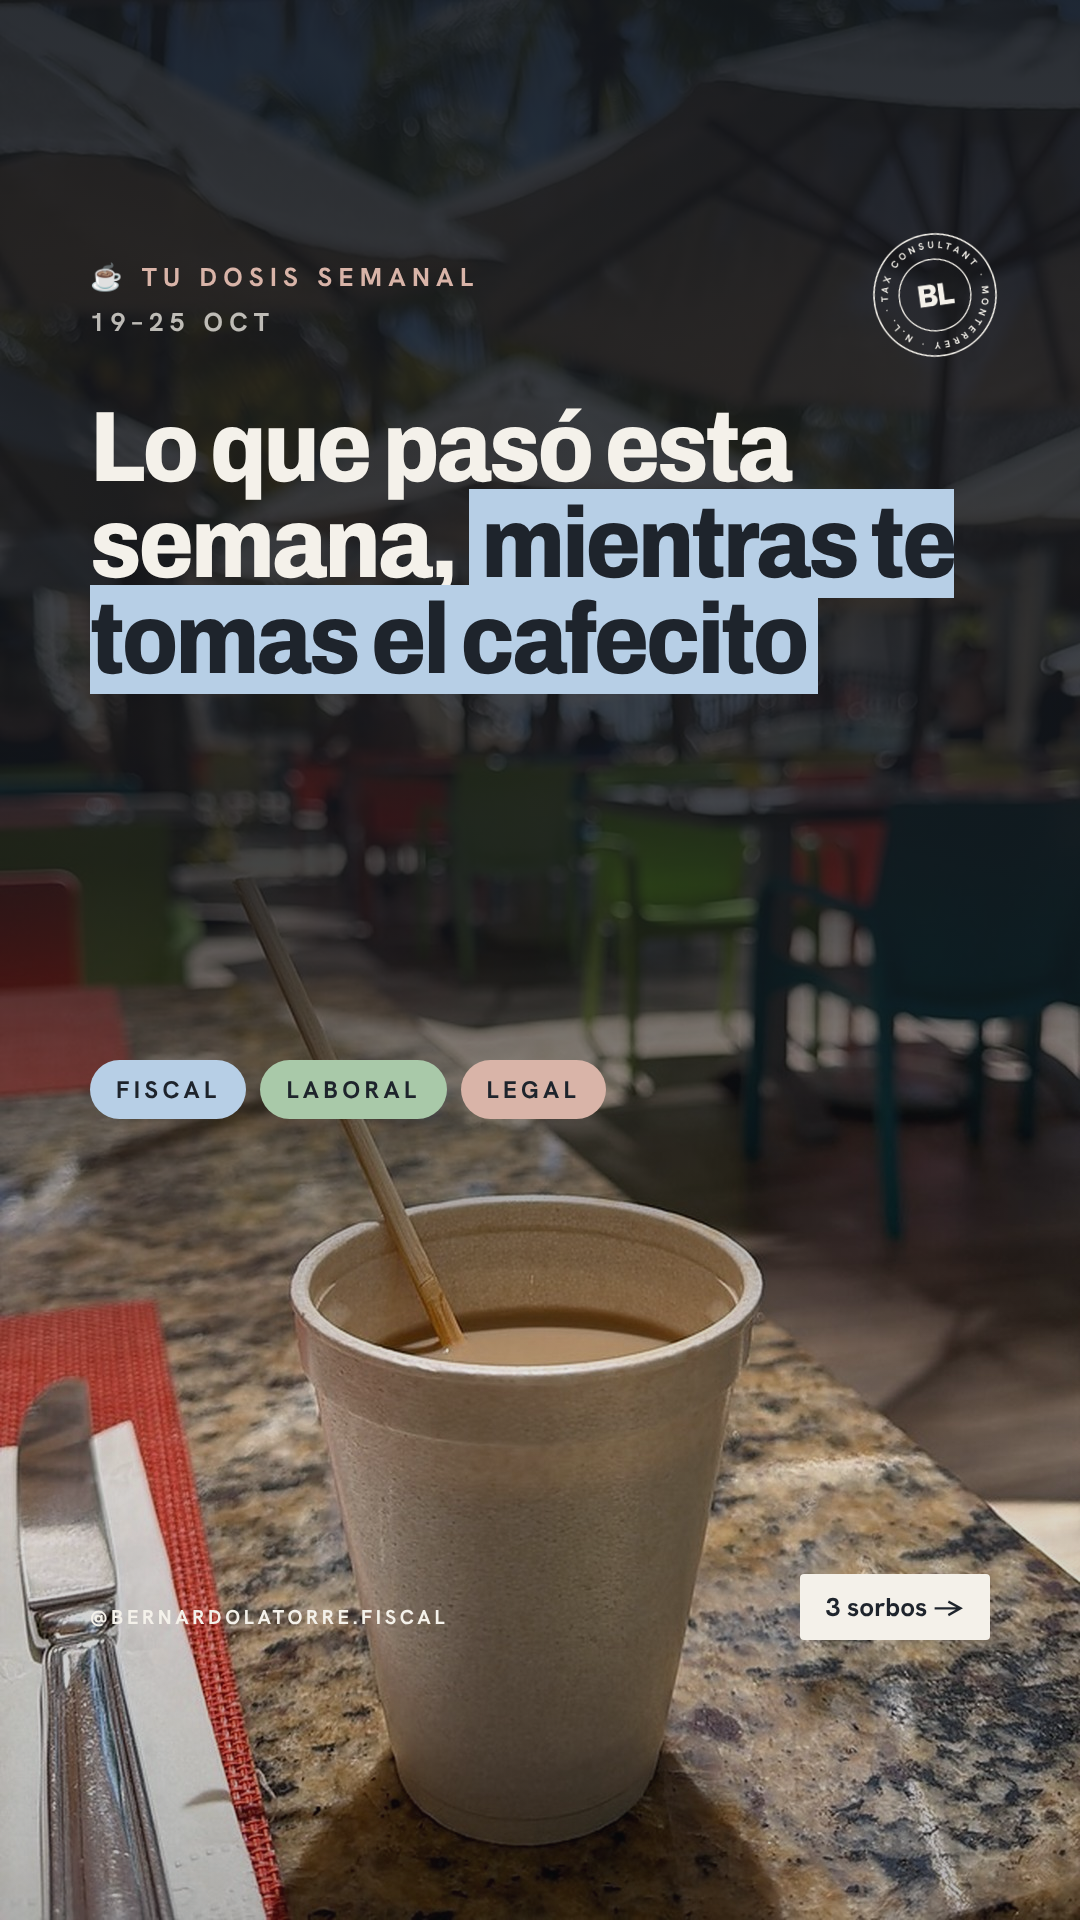
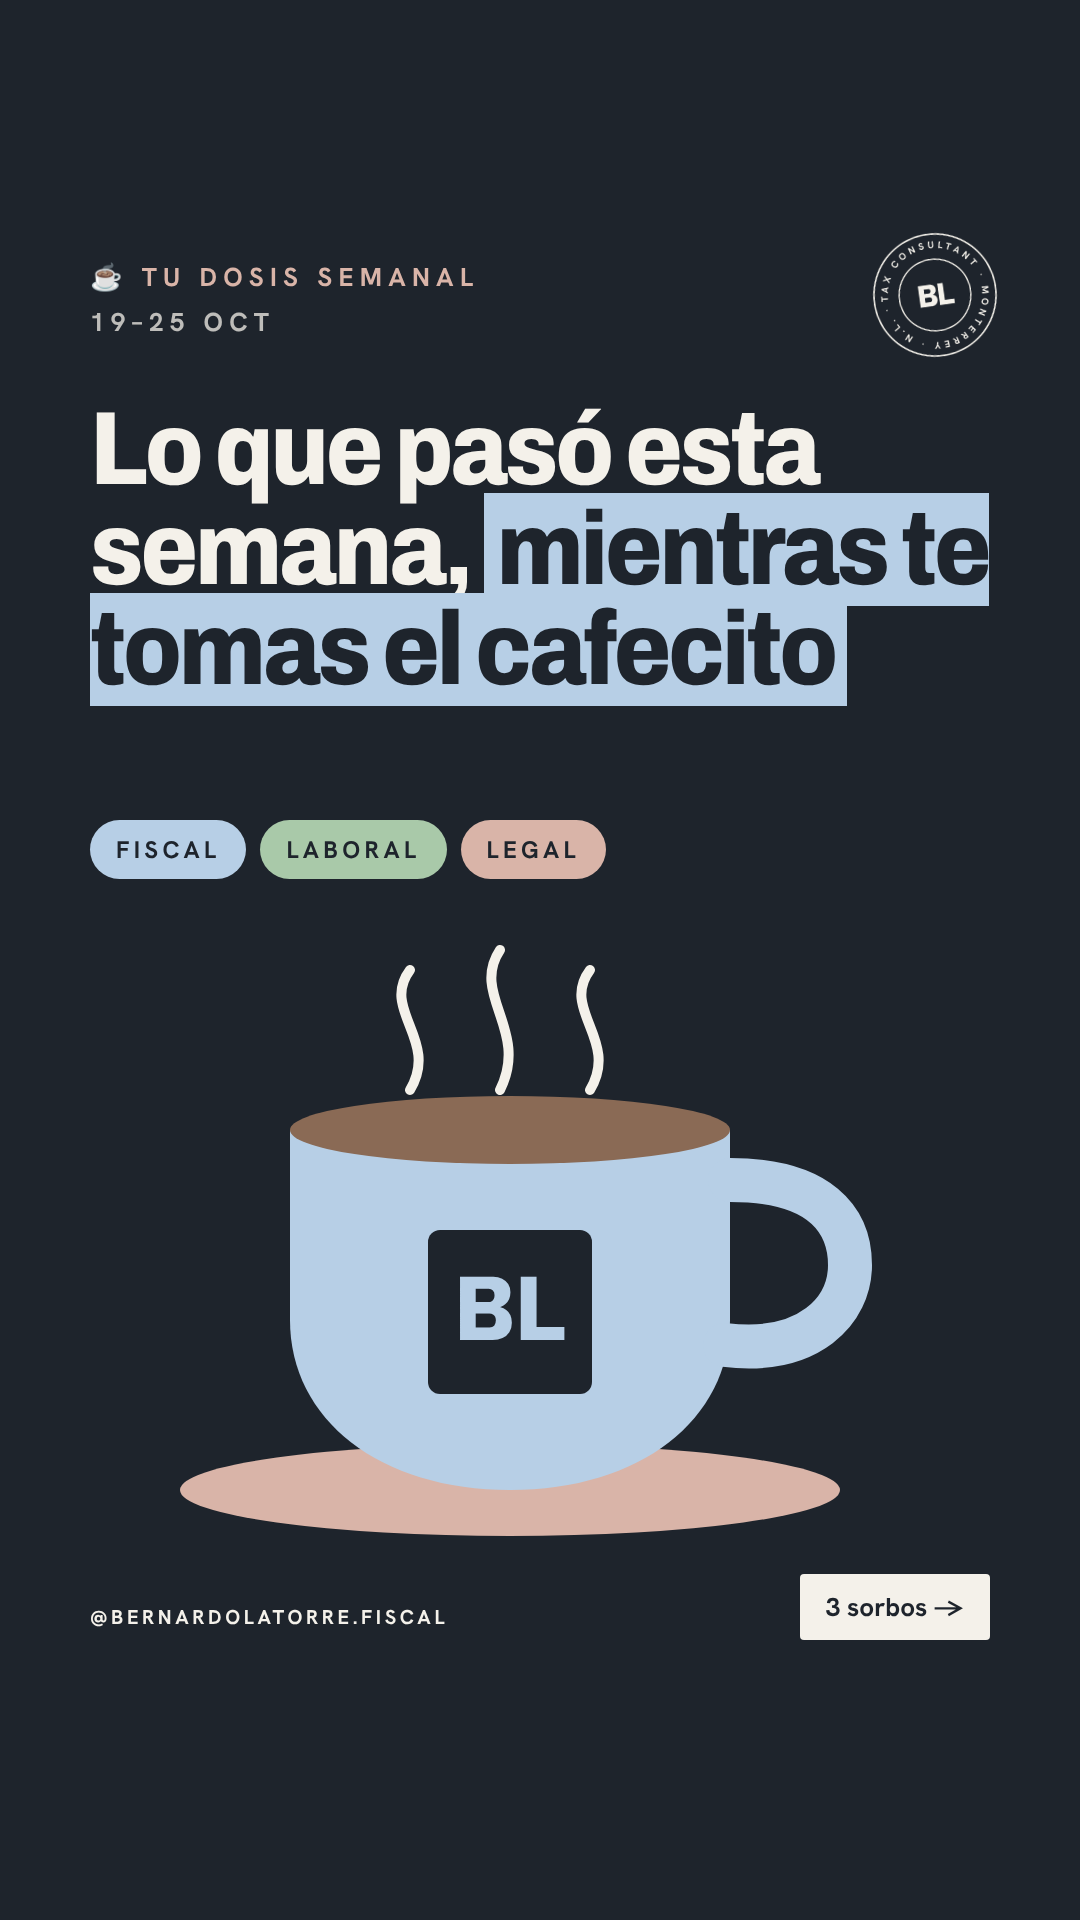
Dosis semanal: portada con ilustración de taza (sin fotos de Berny)
Claude-Session: https://claude.ai/code/session_01J2dboEZNzBYhxcXmwSfC74

diff --git a/recursos/plantillas/DosS1-01-Portada.dc.html b/recursos/plantillas/DosS1-01-Portada.dc.html
@@ -24,14 +24,20 @@ a{color:inherit}
 </helmet>
 <div class="" style="width: 1080px; height: 1920px; position: relative; overflow: hidden; font-family: 'Hanken Grotesk', sans-serif; color: #F4F1EA; background:#1E242C;">
 
-<img src="/_blob/15e9c1c0c5513d53a848a5eb62972dae" alt="Café en una mesa de terraza" style="position:absolute;inset:0;width:100%;height:100%;object-fit:cover;object-position:50% 70%">
-<div aria-hidden="true" style="position:absolute;inset:0;background:linear-gradient(180deg,rgba(20,24,30,0.9) 0%,rgba(20,24,30,0.8) 45%,rgba(20,24,30,0.1) 72%,rgba(20,24,30,0.3) 100%)"></div>
 <img src="/_blob/5b8391f45478910a1d0d8ca2823faf9b" alt="Sello BL, Bernardo Latorre Tax Consultant" style="position:absolute;right:80px;top:230px;width:130px;transform:rotate(-8deg)">
 <div style="position:absolute;left:90px;top:260px;font-size:26px;font-weight:700;letter-spacing:0.24em;color:#D9B4A8">☕ TU DOSIS SEMANAL</div>
 <div style="position:absolute;left:90px;top:305px;font-size:26px;font-weight:700;letter-spacing:0.24em;color:#F4F1EA;opacity:0.75">19–25 OCT</div>
-<h1 class="serif" style="position:absolute;left:90px;right:90px;top:400px;margin:0;font-size:100px;line-height:0.96">Lo que pasó esta semana, <span style="background:#B7CFE6;color:#1E242C;padding:0 12px">mientras te tomas el cafecito</span></h1>
-<div style="position:absolute;left:90px;top:1060px;display:flex;gap:14px">
+<h1 class="serif" style="position:absolute;left:90px;right:90px;top:400px;margin:0;font-size:104px;line-height:0.96">Lo que pasó esta semana, <span style="background:#B7CFE6;color:#1E242C;padding:0 12px">mientras te tomas el cafecito</span></h1>
+<div style="position:absolute;left:90px;top:820px;display:flex;gap:14px">
 <span style="padding:14px 26px;border-radius:999px;background:#B7CFE6;color:#1E242C;font-size:24px;font-weight:700;letter-spacing:0.18em">FISCAL</span><span style="padding:14px 26px;border-radius:999px;background:#A9C9A9;color:#1E242C;font-size:24px;font-weight:700;letter-spacing:0.18em">LABORAL</span><span style="padding:14px 26px;border-radius:999px;background:#D9B4A8;color:#1E242C;font-size:24px;font-weight:700;letter-spacing:0.18em">LEGAL</span></div>
+<svg aria-hidden="true" width="760" height="640" viewBox="0 0 760 640" style="position:absolute;left:160px;top:930px">
+<g fill="none" stroke="#F4F1EA" stroke-width="10" stroke-linecap="round"><path d="M250 40c-30 40 30 70 0 120"/><path d="M340 20c-30 45 30 80 0 140"/><path d="M430 40c-30 40 30 70 0 120"/></g>
+<ellipse cx="350" cy="560" rx="330" ry="46" fill="#D9B4A8"/>
+<path d="M130 200h440v190c0 100-90 170-220 170S130 490 130 390z" fill="#B7CFE6"/>
+<path d="M570 250c90 0 120 40 120 85s-40 90-125 80" fill="none" stroke="#B7CFE6" stroke-width="44" stroke-linecap="round"/>
+<ellipse cx="350" cy="200" rx="220" ry="34" fill="#8A6A55"/>
+<rect x="268" y="300" width="164" height="164" rx="12" fill="#1E242C"/>
+<text x="350" y="410" text-anchor="middle" font-family="Archivo" font-weight="800" font-size="92" fill="#B7CFE6" style="font-stretch:88%">BL</text></svg>
 <div style="position:absolute;right:90px;bottom:280px;padding:16px 26px;background:#F4F1EA;color:#1E242C;font-size:26px;font-weight:700;border-radius:4px">3 sorbos →</div>
 <div style="position:absolute;left:90px;bottom:290px;font-size:20px;font-weight:700;letter-spacing:0.18em;color:#F4F1EA">@BERNARDOLATORRE.FISCAL</div>
 </div>

diff --git a/recursos/plantillas/_gen_dosis_2026_10_26.py b/recursos/plantillas/_gen_dosis_2026_10_26.py
@@ -9,7 +9,6 @@ def _load(n):
 G = _load("_gen_oct20_22"); M = _load("_marca")
 H = "@BERNARDOLATORRE.FISCAL"
 SEMANA = "19–25 OCT"
-CAFE = "/_blob/15e9c1c0c5513d53a848a5eb62972dae"
 BERNY = "/_blob/25bcb8fe94907e94b0640cf81bd101a6"
 PIZ, TIN, MAR, AZ, SAL, TER, TERF = "#262F3B", "#1E242C", "#F4F1EA", "#B7CFE6", "#A9C9A9", "#D9B4A8", "#C98F7E"
 
@@ -45,16 +44,23 @@ def sorbo(n, cat, bg, fg, chip, titulo, cifra, cifra_txt, cuerpo, ati, fuente, c
 
 S = []
 
-# 1 Portada: foto del café de Berny (sombra oscura arriba para leer; sin degradados de color)
+# 1 Portada: ilustración de taza (sin fotos; Berny pidió no usar sus fotos aquí, 25 oct 2026), fondo tinta liso
+TAZA_GRANDE = f"""<svg aria-hidden="true" width="760" height="640" viewBox="0 0 760 640" style="position:absolute;left:160px;top:930px">
+<g fill="none" stroke="{MAR}" stroke-width="10" stroke-linecap="round"><path d="M250 40c-30 40 30 70 0 120"/><path d="M340 20c-30 45 30 80 0 140"/><path d="M430 40c-30 40 30 70 0 120"/></g>
+<ellipse cx="350" cy="560" rx="330" ry="46" fill="{TER}"/>
+<path d="M130 200h440v190c0 100-90 170-220 170S130 490 130 390z" fill="{AZ}"/>
+<path d="M570 250c90 0 120 40 120 85s-40 90-125 80" fill="none" stroke="{AZ}" stroke-width="44" stroke-linecap="round"/>
+<ellipse cx="350" cy="200" rx="220" ry="34" fill="#8A6A55"/>
+<rect x="268" y="300" width="164" height="164" rx="12" fill="{TIN}"/>
+<text x="350" y="410" text-anchor="middle" font-family="Archivo" font-weight="800" font-size="92" fill="{AZ}" style="font-stretch:88%">BL</text></svg>"""
 S.append(("DosS1-01-Portada", story("Tu dosis semanal", MAR, f"""
-<img src="{CAFE}" alt="Café en una mesa de terraza" style="position:absolute;inset:0;width:100%;height:100%;object-fit:cover;object-position:50% 70%">
-<div aria-hidden="true" style="position:absolute;inset:0;background:linear-gradient(180deg,rgba(20,24,30,0.9) 0%,rgba(20,24,30,0.8) 45%,rgba(20,24,30,0.1) 72%,rgba(20,24,30,0.3) 100%)"></div>
 <img src="{M.SELLO_MARFIL}" alt="Sello BL, Bernardo Latorre Tax Consultant" style="position:absolute;right:80px;top:230px;width:130px;transform:rotate(-8deg)">
 <div style="position:absolute;left:90px;top:260px;font-size:26px;font-weight:700;letter-spacing:0.24em;color:{TER}">☕ TU DOSIS SEMANAL</div>
 <div style="position:absolute;left:90px;top:305px;font-size:26px;font-weight:700;letter-spacing:0.24em;color:{MAR};opacity:0.75">{SEMANA}</div>
-<h1 class="serif" style="position:absolute;left:90px;right:90px;top:400px;margin:0;font-size:100px;line-height:0.96">Lo que pasó esta semana, <span style="background:{AZ};color:{TIN};padding:0 12px">mientras te tomas el cafecito</span></h1>
-<div style="position:absolute;left:90px;top:1060px;display:flex;gap:14px">
+<h1 class="serif" style="position:absolute;left:90px;right:90px;top:400px;margin:0;font-size:104px;line-height:0.96">Lo que pasó esta semana, <span style="background:{AZ};color:{TIN};padding:0 12px">mientras te tomas el cafecito</span></h1>
+<div style="position:absolute;left:90px;top:820px;display:flex;gap:14px">
 {''.join(f'<span style="padding:14px 26px;border-radius:999px;background:{c};color:{TIN};font-size:24px;font-weight:700;letter-spacing:0.18em">{t}</span>' for t, c in [("FISCAL", AZ), ("LABORAL", SAL), ("LEGAL", TER)])}</div>
+{TAZA_GRANDE}
 <div style="position:absolute;right:90px;bottom:280px;padding:16px 26px;background:{MAR};color:{TIN};font-size:26px;font-weight:700;border-radius:4px">3 sorbos →</div>
 <div style="position:absolute;left:90px;bottom:290px;font-size:20px;font-weight:700;letter-spacing:0.18em;color:{MAR}">{H}</div>""", TIN)))
 

diff --git a/recursos/historial.md b/recursos/historial.md
@@ -20,7 +20,7 @@ La tarea programada lee este archivo antes de crear un carrusel (para no repetir
 | 2026-10-23 (viernes 21:45, publicado de inmediato a pedido de Berny) | Historias de despacho Ep. 02: sello digital restringido por cambiarse de local sin presentar el aviso de cambio de domicilio (arts. 27 B fr. II y III y 17-H Bis fr. III CFF; art. 29 fr. IV RCFF) | Formato Historias v2.1: papel claro + tarjeta negra tipo post de X (solo texto) | Sello BL pequeño bajo la tarjeta de la última lámina (generador _gen_his02_domicilio.py, prefijo His2) | ninguna (solo texto) |
 | 2026-10-24 | Historias de despacho Ep. 03: factura de una venta que se cayó y no se canceló; plazo para cancelar CFDI (art. 29-A CFF), multa 5%–10% (arts. 81 fr. XLVI y 82 fr. XLII CFF), ingreso acumulable al facturar (art. 17 fr. I a) LISR) | Formato Historias v2.1: papel claro + tarjeta negra tipo post de X (solo texto) | Sello BL pequeño bajo la tarjeta de la última lámina (generador _gen_his03_cancelar_cfdi.py, prefijo His3) | ninguna (solo texto) |
 | 2026-10-19 | Lunes legal #1: ¿Tu equipo trabaja sin contrato? (LFT arts. 24, 25, 26, 35, 39-A y 784) | Degradado sierra + sello BL + etiqueta ⚖ LUNES LEGAL + título Archivo grande "sin contrato?" en azul polvo (motivo: papel/firma) | Mito sobre foto; carga de la prueba sobre expedientes; lista numerada en degradado noche; checklist en hoja sobre papel; plazos en degradado salvia; cierre atardecer con texto GGTZ (generador _gen_leg_contrato.py, prefijo Leg1) | mano-firmando-documento, pilas-de-documentos |
-| 2026-10-26 | Tu dosis semanal #1 — 5 HISTORIAS (lunes 7:00, semana 19–25 oct): nuevo programa de regularización en LIF 2027 (comisiones del Senado), tope de +1 UMA en Modalidad 40 (acuerdo IMSS DOF 21 oct), Ley General de Armonización Catastral y Registral vigente 24 oct | Foto de café de Berny con degradado oscuro + chips FISCAL/LABORAL/LEGAL + sello BL (motivo: café) | 3 sorbos en fondos lisos azul polvo/pizarra/terracota (sin degradados) con cifra gigante y caja "¿Y a ti qué?"; cierre marfil con sticker | vida-cafe-terraza-playa |
+| 2026-10-26 | Tu dosis semanal #1 — 5 HISTORIAS (lunes 7:00, semana 19–25 oct): nuevo programa de regularización en LIF 2027 (comisiones del Senado), tope de +1 UMA en Modalidad 40 (acuerdo IMSS DOF 21 oct), Ley General de Armonización Catastral y Registral vigente 24 oct | Fondo tinta liso + ilustración de taza azul polvo con BL + chips FISCAL/LABORAL/LEGAL + sello BL (motivo: café, sin fotos) | 3 sorbos en fondos lisos azul polvo/pizarra/terracota (sin degradados) con cifra gigante y caja "¿Y a ti qué?"; cierre marfil con sticker | ninguna (ilustración) |
 | (sin publicar) | Tus primeros clientes como contador (idea de Berny, ref. @cooltura.fiscal; audiencia: colegas) | Fondo salvia liso, título centrado grande, ruta punteada "Big Four → Tu propio despacho" con pin terracota (motivo: camino/ruta, sin foto) | Cita grande; círculos concéntricos; tarjetas de presentación antes/después; calendario semanal; red de alianzas; ruta de pasos con línea | mecanico-taller, barberia, florista-mercado-celular, cafe-laptop-trabajo, sat-portal-home-movil, cerro-de-la-silla-atardecer |
 
 Temas ya cubiertos que no se repiten: depósitos en efectivo y discrepancia fiscal (¿el SAT ve tu cuenta de banco?), último aviso de la regularización fiscal 2026, retención de ISR por intereses 0.68% en 2027 (LIF 2027 en Diputados; retomar cuando salga en el DOF), RESICO tope 5 millones (reforma ISR 2027 en Diputados; retomar cuando lo apruebe el Senado o salga en el DOF), Ley de Economía Digital (aprobación en Diputados; se puede retomar cuando la apruebe el Senado o se publique en el DOF), Buen Fin 2026, presentación de Berny, Paquete Económico 2027, deducciones personales, cierre fiscal 2026, RESICO, 5 cosas que nunca haría, primeros clientes como contador (parte 1; parte 2 pendiente: convertir prospectos en clientes), ingresos que no pagan ISR (parte 1; la parte 2 queda pendiente: venta de casa habitación, seguros, aguinaldo/prima/PTU exentos, etc.).

diff --git a/recursos/GUIA-ESTILO.md b/recursos/GUIA-ESTILO.md
@@ -176,7 +176,7 @@ Pedido por Berny el 25 oct 2026: cada lunes a las 7:00, **historias de Instagram
 
 - **5 historias:** portada + 3 "sorbos" (FISCAL, LABORAL/IMSS, LEGAL) + cierre. Si una semana no hay noticia de alguna categoría, se usa otra de las dos, pero siempre 3 sorbos.
 - **Zona segura:** nada en los 200 px de arriba ni en los 220 de abajo (el contenido empieza en ~230 y el pie va en bottom 260).
-- **Portada:** foto de café de Berny (`vida-cafe-terraza-playa` u otra suya con café) con sombra oscura arriba, "☕ TU DOSIS SEMANAL" + fechas, título "Lo que pasó esta semana, mientras te tomas el cafecito" con marcador azul polvo, chips FISCAL / LABORAL / LEGAL, sello BL y botón "3 sorbos →".
+- **Portada:** SIN fotos de Berny (lo pidió el 25 oct 2026): fondo tinta liso con la ilustración de taza azul polvo con "BL" sobre plato terracota (`TAZA_GRANDE` del generador; se puede variar el color de la taza), "☕ TU DOSIS SEMANAL" + fechas, título "Lo que pasó esta semana, mientras te tomas el cafecito" con marcador azul polvo, chips FISCAL / LABORAL / LEGAL, sello BL y botón "3 sorbos →".
 - **Cada sorbo:** fondo liso (fiscal azul polvo, laboral pizarra, legal terracota suave), "☕ SORBO N" + chip de categoría, taza de línea arriba a la derecha, titular en Archivo 112 px con marcador, cifra o dato gigante (190 px), qué pasó en 2–3 renglones (40 px) y la caja "¿Y A TI QUÉ?" ligeramente girada; fuente chica abajo y pie "@BERNARDOLATORRE.FISCAL · N / 5".
 - **Cierre:** marfil liso, "¿Cuál de los 3 te pegó más?", "Respóndeme esta historia con 1, 2 o 3", círculos 1-2-3 de colores, sticker de Berny con "LATORRE" tenue detrás, teléfono, logo horizontal pizarra y "SOCIO EN GGTZ CONSULTORES".
 - **Noticias:** de la semana anterior, verificadas en fuente oficial (DOF, SAT, IMSS, STPS, Congreso, SCJN, Luthor) o dos medios serios; estatus claro. No repetir lo del Chismesito del domingo ni lo del miércoles salvo avance nuevo.
